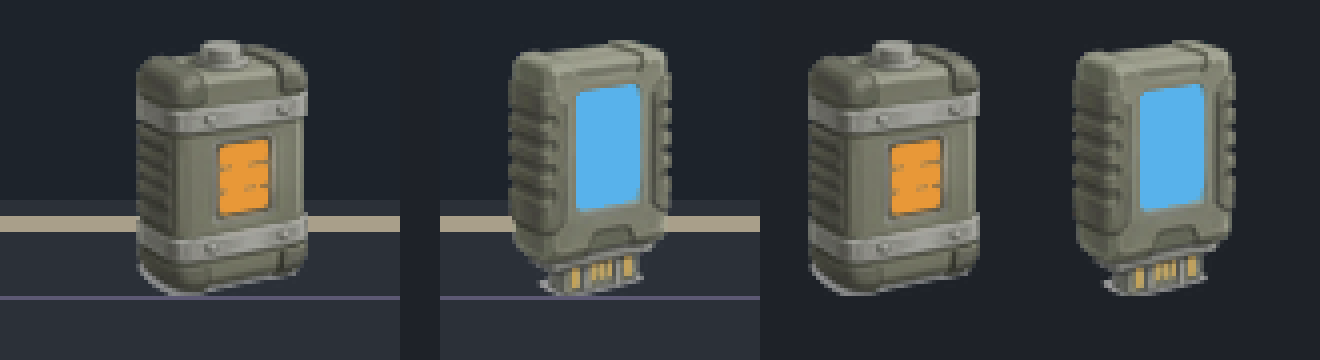
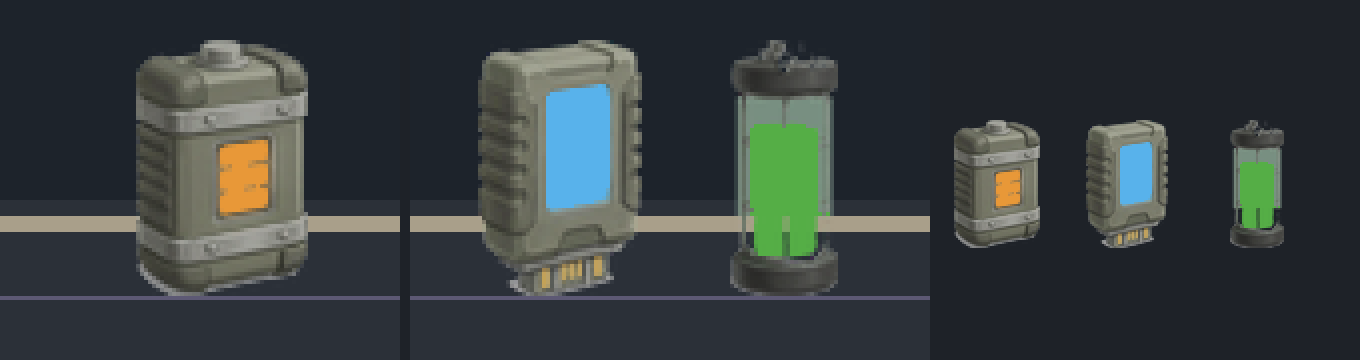
Pods masters pass 134: the Essence container and the haul trio

diff --git a/art/station-masters/pods/tools/haulcut.py b/art/station-masters/pods/tools/haulcut.py
@@ -6,10 +6,13 @@ import numpy as np
 from PIL import Image, ImageFilter
 ROOT = os.path.dirname(os.path.dirname(os.path.abspath(__file__))); os.chdir(ROOT)
 exec(open("tools/nightdist.py").read(), globals())
-SRC = "source/raw/cargo-haul-3.jpg"; a = np.asarray(Image.open(SRC).convert("RGB")).astype(float); H, W, _ = a.shape
-bg = np.median(np.concatenate([a[:30].reshape(-1, 3), a[-30:].reshape(-1, 3), a[:, :30].reshape(-1, 3), a[:, -30:].reshape(-1, 3)]), axis=0)
-dist = np.sqrt(((a - bg) ** 2).sum(2)); sh = (a.max(2) - a.min(2) < 14) & (dist < 60) & (a.mean(2) < bg.mean() - 2)               # the soft contact shadow is grey and darker: not the object
-alpha = np.clip((dist - 30) / 18.0, 0, 1) * (~sh)
+def load_src(path):
+    global a, H, W, bg, dist, alpha
+    a = np.asarray(Image.open(path).convert("RGB")).astype(float); H, W, _ = a.shape
+    bg = np.median(np.concatenate([a[:30].reshape(-1, 3), a[-30:].reshape(-1, 3), a[:, :30].reshape(-1, 3), a[:, -30:].reshape(-1, 3)]), axis=0)
+    dist = np.sqrt(((a - bg) ** 2).sum(2)); sh = (a.max(2) - a.min(2) < 14) & (dist < 60) & (a.mean(2) < bg.mean() - 2)               # the soft contact shadow is grey and darker: not the object
+    alpha = np.clip((dist - 30) / 18.0, 0, 1) * (~sh)
+SRC = "source/raw/cargo-haul-3.jpg"; load_src(SRC)
 def piece(box, flat):
     x0, y0, x1, y1 = box; sub = a[y0:y1, x0:x1].copy(); al = alpha[y0:y1, x0:x1].copy()
     lab = al > 0.5; seen = np.zeros(lab.shape, bool); ys, xs = np.where(lab); st = [(ys[len(ys) // 2], xs[len(xs) // 2])]
@@ -36,7 +39,17 @@ def piece(box, flat):
     dsub = dist[box[1]:box[3], box[0]:box[2]]; strong = (dsub > 115).sum(1); foot = int(np.where(strong >= 4)[0].max()); al[foot + 2:] = 0; al[:, :] = al                    # the contact shadow under the foot is cut off: nothing below the last row that holds solid object pixels
     ys, xs = np.where(al > 0.5); b = (xs.min(), ys.min(), xs.max() + 1, ys.max() + 1); sub = sub[b[1]:b[3], b[0]:b[2]]; al = al[b[1]:b[3], b[0]:b[2]]
     return sub, al
+def piece_tube(box):
+    """the caged glass sample tube (Essence): the two dark rubber caps are the solid core; between them the glass and its cage are filled in (the clear glass is nearly the ground's colour), so the silhouette is the caps plus the glass between them; the glass reads as a flat dull pale green-grey, the steel bars and hoops keep their painted pixels, the green essence is found by colour"""
+    x0, y0, x1, y1 = box; sub = a[y0:y1, x0:x1].copy(); d_ = dist[y0:y1, x0:x1]; dark = d_ > 100; rows = np.where(dark.sum(1) > 120)[0]
+    grp = np.split(rows, np.where(np.diff(rows) > 1)[0] + 1); top_end = int(grp[0].max()); bot_start = int(grp[-1].min()); cols = np.where(dark[rows].sum(0) > 8)[0]; xl, xr = int(cols.min()) + 16, int(cols.max()) - 16
+    sil = dark.copy(); sil[top_end:bot_start + 1, xl:xr + 1] = True
+    sil = np.asarray(Image.fromarray((sil * 255).astype(np.uint8)).filter(ImageFilter.MaxFilter(5)).filter(ImageFilter.MinFilter(5)).filter(ImageFilter.GaussianBlur(0.8))).astype(float) / 255.0
+    g = (sub[..., 1] > sub[..., 0] + 25) & (sub[..., 1] > sub[..., 2] + 25) & (sub[..., 1] > 110); steel = (d_ > 40) & (sub.max(2) - sub.min(2) < 30) & (sub.mean(2) < 150)
+    glass = np.zeros(dark.shape, bool); glass[top_end + 1:bot_start, xl:xr + 1] = True; tint = np.array([118.0, 140.0, 126.0]); out = sub.copy(); gm = glass & ~g & ~steel; out[gm] = tint
+    al_ = sil * (sil > 0.5); ys, xs = np.where(al_ > 0.5); b = (xs.min(), ys.min(), xs.max() + 1, ys.max() + 1); return out[b[1]:b[3], b[0]:b[2]], al_[b[1]:b[3], b[0]:b[2]]
 def window_mask(sub, kind):
+    if kind == "green": m = (sub[..., 1] > sub[..., 0] + 25) & (sub[..., 1] > sub[..., 2] + 25) & (sub[..., 1] > 110); return np.asarray(Image.fromarray((m * 255).astype(np.uint8)).filter(ImageFilter.MedianFilter(3))) > 0
     if kind == "amber": m = (sub[..., 0] > 190) & (sub[..., 1] > 110) & (sub[..., 1] < 200) & (sub[..., 2] < 110)
     else: m = (sub[..., 2] > sub[..., 0] + 50) & (sub[..., 2] > 150)
     return np.asarray(Image.fromarray((m * 255).astype(np.uint8)).filter(ImageFilter.MedianFilter(3))) > 0
@@ -50,8 +63,10 @@ def cap_flat(rgb, cap=69.5):
         else: lo = g
     return to_srgb(lin * lo)
 man = json.load(open("slices/manifest.json")); outs = {}
-for name, box, kind, flatc, made in (("cargo-energy-48x64", (200, 90, 640, 690), "amber", (255, 168, 63), "the Energy haul container: the banded steel battery cell with dark rubber corners, a cap terminal and a charge window of three flat amber bars (#ffa83f)"), ("cargo-data-48x64", (790, 90, 1180, 680), "sky", (91, 185, 243), "the Data haul container: the rugged ribbed cartridge standing upright, its connector at the foot, a flat sky window (#5bb9f3)")):
-    sub, al = piece(box, flatc); wm = window_mask(sub, kind); fl = cap_flat(flatc)
+for name, box, kind, flatc, made in (("cargo-energy-48x64", (200, 90, 640, 690), "amber", (255, 168, 63), "the Energy haul container: the banded steel battery cell with dark rubber corners, a cap terminal and a charge window of three flat amber bars (#ffa83f)"), ("cargo-data-48x64", (790, 90, 1180, 680), "sky", (91, 185, 243), "the Data haul container: the rugged ribbed cartridge standing upright, its connector at the foot, a flat sky window (#5bb9f3)"), ("cargo-essence-48x64", (530, 40, 850, 720), "green", (92, 187, 76), "the Essence haul container: the caged sealed glass sample tube (the art director's E1 sketch) with flat green essence (#5cbb4c), a light open cage of two bars and two hoops, dark rubber end caps and a steel clip on the top cap")):
+    if name.startswith("cargo-essence"): load_src("source/raw/cargo-haul-4-essence.jpg")
+    elif "SRC_ESS" not in globals() and False: pass
+    sub, al = piece_tube(box) if name.startswith('cargo-essence') else piece(box, flatc); wm = window_mask(sub, kind); fl = cap_flat(flatc, 64.0 if kind == 'green' else 69.5)
     wmi = wm; sub = sub.copy(); sub[wmi] = fl                  # flat window colour, a thin rim of the painted frame kept
     h, w = al.shape; s = 64.0 / h; nw, nh = max(1, round(w * s)), 64
     arr = np.dstack([sub, al * 255]); pm = np.dstack([arr[..., :3] * arr[..., 3:] / 255.0, arr[..., 3:]]).astype(np.uint8); r = np.asarray(Image.fromarray(pm, "RGBA").resize((nw, nh), Image.LANCZOS)).astype(float)
@@ -63,19 +78,19 @@ for name, box, kind, flatc, made in (("cargo-energy-48x64", (200, 90, 640, 690),
     lo, hi = 0.3, 3.0
     for _ in range(26):
         g = (lo * hi) ** 0.5; L = lstar(to_srgb(lin * g)); 
-        if L[body].mean() < 47.0: lo = g
+        if L[body].mean() < (41.0 if kind == 'green' else 47.0): lo = g
         else: hi = g
     g = (lo * hi) ** 0.5; lin2 = lin * g; Y = lin2 @ np.array([0.2126, 0.7152, 0.0722]); Ls = np.where(Y > 0.008856, 116 * np.cbrt(Y) - 16, 903.3 * Y); knee = 58.0
     L2 = np.where(Ls > knee, knee + 11.0 * (1 - np.exp(-(Ls - knee) / 8.0)), Ls); Y2 = np.where(L2 > 8, ((L2 + 16) / 116) ** 3, L2 / 903.3); out = to_srgb(lin2 * (Y2 / np.maximum(Y, 1e-6))[..., None])
     out[wm2] = fl; t[..., :3] = out; im = Image.fromarray(np.rint(t).clip(0, 255).astype(np.uint8), "RGBA"); im.save(f"slices/{name}.png", optimize=True); outs[name] = im
-    man[name] = {"size": [48, 64], "rect": None, "src": SRC + " (gemini-3-pro-image)", "made": made + "; a Pro edit from the owner's own sketch, keyed from the ground, uniformly scaled to 64 rows with the feet on the bottom row, the body graded to a mean L* of 47, highlights capped under L* 70, the window flat colour capped at L* 69.5 (pass 133)", "sha256": hashlib.sha256(open(f"slices/{name}.png", "rb").read()).hexdigest()}
+    man[name] = {"size": [48, 64], "rect": None, "src": ("source/raw/cargo-haul-4-essence.jpg" if name.startswith("cargo-essence") else SRC) + " (gemini-3-pro-image)", "made": made + "; a Pro edit from the owner's own sketch, keyed from the ground, uniformly scaled to 64 rows with the feet on the bottom row, the body graded to a mean L* of 47, highlights capped under L* 70, the window flat colour capped at L* 69.5 (pass 133)", "sha256": hashlib.sha256(open(f"slices/{name}.png", "rb").read()).hexdigest()}
 json.dump(man, open("slices/manifest.json", "w"), indent=1)
 # proof over the open crate: the Cargo bay (screen 1024x600): the crate region (296, 120, 432, 272), the open crate; Energy at the left and Data at the right of the crate, feet on y 384 (the crate's foot line), the empty third place for Essence (held)
 def frame():
     from PIL import ImageDraw
     f = Image.new("RGB", (1024, 600), (43, 48, 56)); d_ = ImageDraw.Draw(f); d_.rectangle([16, 48, 1007, 367], outline=(169, 159, 138), width=4); d_.rectangle([24, 56, 999, 359], fill=(29, 35, 43)); d_.line([(24, 384), (999, 384)], fill=(93, 89, 116)); return f.convert("RGBA")
-f = frame(); f.alpha_composite(Image.open("slices/crate-open-432x272.png").convert("RGBA"), (296, 120)); f.alpha_composite(outs["cargo-energy-48x64"], (232, 320)); f.alpha_composite(outs["cargo-data-48x64"], (744, 320))
+f = frame(); f.alpha_composite(Image.open("slices/crate-open-432x272.png").convert("RGBA"), (296, 120)); f.alpha_composite(outs["cargo-energy-48x64"], (232, 320)); f.alpha_composite(outs["cargo-data-48x64"], (744, 320)); f.alpha_composite(outs["cargo-essence-48x64"], (800, 320))
 p1 = f.convert("RGB").crop((176, 232, 848, 408)); p1.save("marks/cargo-haul-proof-1x.png")
-z = f.convert("RGB"); big = Image.new("RGB", (4 * 330, 4 * 90), (30, 34, 40)); big.paste(z.crop((200, 310, 300, 400)).resize((400, 360), Image.NEAREST), (0, 0)); big.paste(z.crop((730, 310, 810, 400)).resize((320, 360), Image.NEAREST), (440, 0))
-for i, n in enumerate(("cargo-energy-48x64", "cargo-data-48x64")): t = outs[n]; big.paste(t.convert("RGB").resize((192, 256), Image.NEAREST), (800 + i * 260, 40), t.resize((192, 256), Image.NEAREST))
+z = f.convert("RGB"); big = Image.new("RGB", (1360, 360), (30, 34, 40)); big.paste(z.crop((200, 310, 300, 400)).resize((400, 360), Image.NEAREST), (0, 0)); big.paste(z.crop((730, 310, 860, 400)).resize((520, 360), Image.NEAREST), (410, 0))
+for i, n in enumerate(("cargo-energy-48x64", "cargo-data-48x64", "cargo-essence-48x64")): t = outs[n]; big.paste(t.convert("RGB").resize((96, 128), Image.NEAREST), (950 + i * 130, 120), t.resize((96, 128), Image.NEAREST))
 big.save("marks/cargo-haul-proof-4x.png"); print("ok")

diff --git a/art/station-masters/pods/tools/status.py b/art/station-masters/pods/tools/status.py
@@ -89,7 +89,7 @@ for n in m:
     elif re.match(r"idle-vivarium-(day|dusk|night)-1024x568$", n): sign(n, "signed", "art director, 10-10 09:27", "Idle's Vivarium by light, seams softened in pass 96 (hashes a41cd5a51668 / 8ff860ffa60a / de75e05559ba); the night's cooler canopy accepted")
     elif n in ("room-bench-stage", "room-bench-stage-overview", "room-bench-stage-chapter", "room-bench-stage-collection", "room-cradle", "room-cradle-front", "room-shelf", "room-stamp-case-152x152", "room-stamp-case-152x152-front", "ring-well-idle-80x80", "ring-well-selected-80x80", "ring-well-empty-80x80", "ring-hatch-80x56", "ring-kin-56x56", "ring-collection-idle-176x176", "ring-collection-closed-176x176", "ring-column-112x522"): sign(n, "new", None, "pass 93: the Pods room set in the sample-case language (the signed concept board, frame 2): Pro paintings, the stage composed to the layout's rectangles, the pieces cut at size from one sheet; replaces the earlier glass-dish set; awaiting the art director's judgement (not signed)")
     elif re.match(r"sitting-backdrop-(pond|rock|cave)-544x408$", n) or re.match(r"sitting-gilt-(lit-)?560x424$", n) or re.match(r"place-\w+-96x96$", n) or n == "pose-S01-shake-dry-96x96": sign(n, "signed", "art director, sitting verdict (a079009f)", "a Sitting master signed by the art director after the 1x composite")
-    elif re.match(r"cargo-(energy|data)-48x64$", n): sign(n, "new", None, "pass 133: the Cargo haul container (the owner-approved Pro edit from the owner's own sketch, cut by hand): 64 rows, feet on the bottom row, body graded to L* 47, highlights capped, the window a flat colour; awaiting the art director's judgement (not signed)")
+    elif re.match(r"cargo-(energy|data|essence)-48x64$", n): sign(n, "new", None, "pass 133: the Cargo haul container (the owner-approved Pro edit from the owner's own sketch, cut by hand): 64 rows, feet on the bottom row, body graded to L* 47, highlights capped, the window a flat colour; awaiting the art director's judgement (not signed)")
     elif re.match(r"crate-((open|sealed|opening)-432x272|sealed-256x176|sitting-256x176|sitting-80x56)$", n): sign(n, "new", None, "pass 122: the Cargo crate (the art director's Cargo brief, owner-approved Pro): the Home bay's sage field case seen closer with dark rubber corners and an orange seal tag, no wood; " + ("the sitting crate with the gilt frame glyph on the lid; replaces the old teal crate-sitting-80x56 (pass 89, no longer tracked)" if "sitting" in n else "cut and drawn by hand from the two Pro pictures") + "; awaiting the art director's judgement (not signed)")
     elif n == "crate-sitting-80x56": sign(n, "new", None, "pass 89: repainted after the hold (a079009f): a steel case with a lit top edge, lid seam, two latches and steel posts round a teal front like Home A-r3-a1's crates, the 24x16 gilt glyph at (28, 12), 33..46 x 35..48 plain teal for the lamp, no seal tag; awaiting the art director's sign")
     elif re.match(r"pose-S0[23]-", n): sign(n, "placeholder", None, "a Sitting pose of a species whose painting does not exist yet: never a delivery; repaint once the species' painting is accepted (the art director, a079009f); the 48 is downsampled from the 96")

diff --git a/art/station-masters/pods/README.md b/art/station-masters/pods/README.md
@@ -36,6 +36,7 @@ Each slice is named by the register id it replaces (`room`, `ring`, `page`, `tra
 | `bud-small-64x80` | 64×80 |  | signed (art director, verdict (963f4eab)): signed (art director) at 1x, opaque pixels: L* 61.5, key R-B 71, sat 58, 0 percent above L* 70; the bean a clean 112x140 oval, peach lit cream from the top left, a 1 px rust edge, no dot, sprout or waist | the bud for Create's small chamber: the new bud-early reduced by one half (64x80, only ever reduced) (pass 111) |
 | `cargo-data-48x64` | 48×64 |  | new: pass 133: the Cargo haul container (the owner-approved Pro edit from the owner's own sketch, cut by hand): 64 rows, feet on the bottom row, body graded to L* 47, highlights capped, the window a flat colour; awaiting the art director's judgement (not signed) | the Data haul container: the rugged ribbed cartridge standing upright, its connector at the foot, a flat sky window (#5bb9f3); a Pro edit from the owner's own sketch, keyed from the ground, uniformly scaled to 64 rows with the feet on the bottom row, the body graded to a mean L* of 47, highlights capped under L* 70, the window flat colour capped at L* 69.5 (pass 133) |
 | `cargo-energy-48x64` | 48×64 |  | new: pass 133: the Cargo haul container (the owner-approved Pro edit from the owner's own sketch, cut by hand): 64 rows, feet on the bottom row, body graded to L* 47, highlights capped, the window a flat colour; awaiting the art director's judgement (not signed) | the Energy haul container: the banded steel battery cell with dark rubber corners, a cap terminal and a charge window of three flat amber bars (#ffa83f); a Pro edit from the owner's own sketch, keyed from the ground, uniformly scaled to 64 rows with the feet on the bottom row, the body graded to a mean L* of 47, highlights capped under L* 70, the window flat colour capped at L* 69.5 (pass 133) |
+| `cargo-essence-48x64` | 48×64 |  | new: pass 133: the Cargo haul container (the owner-approved Pro edit from the owner's own sketch, cut by hand): 64 rows, feet on the bottom row, body graded to L* 47, highlights capped, the window a flat colour; awaiting the art director's judgement (not signed) | the Essence haul container: the caged sealed glass sample tube (the art director's E1 sketch) with flat green essence (#5cbb4c), a light open cage of two bars and two hoops, dark rubber end caps and a steel clip on the top cap; a Pro edit from the owner's own sketch, keyed from the ground, uniformly scaled to 64 rows with the feet on the bottom row, the body graded to a mean L* of 47, highlights capped under L* 70, the window flat colour capped at L* 69.5 (pass 133) |
 | `cell-outline-unread-128x160` | 128×160 |  | signed (pass 61 verdict): the seed values (bone rim, fog rim, frostS body, mist dark half and ghost; the ink ring ruled not needed), and the unread outline typed at its size | the unread picture's dotted outline typed at its size: 1 px `bevel` #5a6672 dots, 1 on 2 off; all four corners lit; from each corner the dots run inward on a 3 px period, each side's remainder one gap at its middle; no two dots touch; the middle fully transparent (pass 60; replaces the withdrawn cell-outline-unread-24x24) |
 | `cell-outline-unread-24x24` | 24×24 |  | withdrawn: pass 60: off spec (mist, 1 on 1 off, a nine-slice); replaced by cell-outline-unread-128x160 | the unread picture's dotted outline: a nine-slice (insets 8 px on every side; edges tile at 8 px, the middle fully transparent) of a 1 px line in mist #8d8aa6, one dot lit and one gap, dots where the coordinate from the top left is even; for even cell sizes; the corner pixel is off at three corners so no dots touch |
 | `chamber-back-400x320` | 400×320 |  | signed (art director, verdict (72561d74)): signed (art director) at 1x: L* 38.1, key R-B 36, sat 29 against the stage 36.0/38/24; the work tray in the stage's rendering (rim lit top-left, shaded lower-right, inner shadow, four screws); the founder fills most of it | the work tray in the housing, drawn by hand: a panel back (the Incubator stage's warm foam), an enamel rim (the sand of base-336x96), the floor 400x16 at (0, 304) in enamel with a bevel edge; matte, no glass edge, no highlight (pass 113) |
@@ -801,6 +802,18 @@ The Station art director's dawn fix (returned to `new` after a 1x check: the key
 | `home-glass-night-640x488` | 30.6 | (121, 99, 68) | 53 | 53 |
 
 Honest notes: the dawns' saturation (33, 36, 42) stays under the day's (48, 57, 50) and the dusk's (56, 62, 62); the key R-B reaches the asked 35 but not the day's 74. The night glass and the other lights are unchanged.
+
+## Pass 134 - the Essence container, and the three together (owner-approved Pro edit)
+
+The art director's approved edit for Essence (the owner reads the vial as an alchemy kit; the art director's sketch E1, "caged sample tube, opened": `essence-field-sketches.png`, masters-pods 6ffb4f0d, cropped to E1 with every caption removed): **1 Pro request** to gemini-3-pro-image (`cargo-haul-4-essence`, with a crop of the Energy and Data painting for the look), succeeded, no retry: **3.86 MXN**; today's total **201.18 MXN of 250** (197.32 + 3.86). Picture kept at `concepts/cargo-haul-3/`. [`tools/haulcut.py`](tools/haulcut.py) cuts `cargo-essence-48x64` by hand: the two dark rubber caps are the solid core, the glass between them is filled in (it is nearly the ground's colour) as a flat dull pale green-grey, the steel clip and the cage keep their painted pixels, the essence is a flat green (#5cbb4c, capped at L* 64), 64 rows, feet on the bottom row, the body graded to L* 41 so the large green field brings the whole to L* 50. Hash (sha256 prefix) 5102dadb7d02. `new`. Energy and Data are byte-identical to pass 133. 1x numbers, opaque pixels (L* 45-49 +-4, sat 35 or less, at most 3 percent above L* 70):
+
+| slice | mean L* | key RGB | key R-B | sat |
+| --- | --- | --- | --- | --- |
+| `cargo-energy-48x64` | 48.0 | (145, 143, 130) | 15 | 16 |
+| `cargo-data-48x64` | 51.2 | (114, 171, 200) | -86 | 23 |
+| `cargo-essence-48x64` | 50.2 | (88, 174, 73) | 14 | 29 |
+
+Essence: mean L* 50.2, sat 29.2, mean R-B 6.0, 0.0 percent above L* 70. Honest notes: the cage's two bars and two hoops are thinner than a pixel at 48x64 and are lost (the tube reads as a glass tube with green and two dark caps, no cage); the green fill carries a small notch where the middle bar was; the steel clip on the top cap is a few dark pixels; the tube is 27 px wide at 64 rows (the narrowest of the three). Proof of the three over the open crate at 1x and 4x: `marks/cargo-haul-proof-1x.png`, `marks/cargo-haul-proof-4x.png`.
 
 ## Pass 133 - the Cargo haul containers, Energy and Data (owner-approved Pro edit)
 
